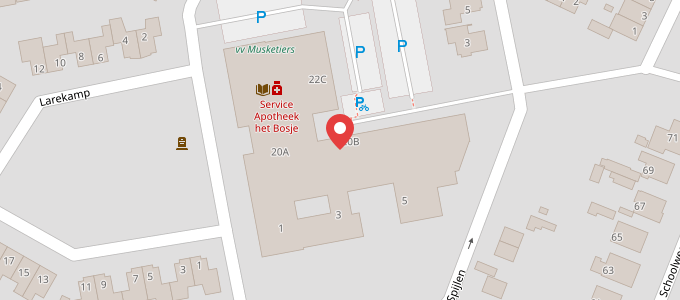
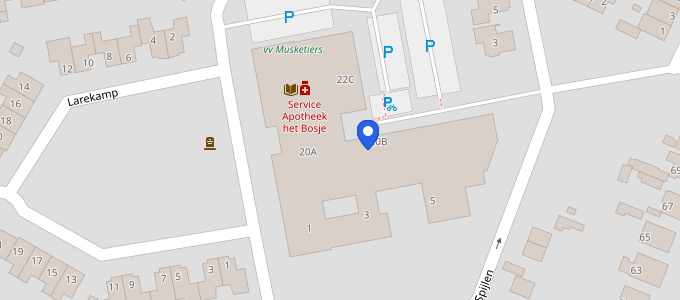
feat: add map generation script with consistent blue pin

diff --git a/scripts/generate-maps.js b/scripts/generate-maps.js
@@ -1,0 +1,129 @@
+import sharp from "sharp";
+import { createWriteStream } from "fs";
+import { get } from "https";
+import { join, dirname } from "path";
+import { fileURLToPath } from "url";
+
+const ROOT = join(dirname(fileURLToPath(import.meta.url)), "..");
+const STATIC = join(ROOT, "static");
+
+const MAPS = [
+  {
+    lat: 51.987485,
+    lon: 5.49561,
+    zoom: 18,
+    output: "locatie-kaart.png",
+    alt: "Locatie Tabaksweg 20 Elst",
+  },
+  {
+    lat: 51.987478,
+    lon: 5.494756,
+    zoom: 18,
+    output: "avond4daagse-locatie.png",
+    alt: "Startlocatie Het Eiveld Elst",
+  },
+];
+
+const OUT_W = 680;
+const OUT_H = 300;
+const TILE_SIZE = 256;
+const PIN_W = 22;
+const PIN_H = 30;
+
+const PIN_SVG = Buffer.from(
+  `<svg xmlns="http://www.w3.org/2000/svg" width="${PIN_W}" height="${PIN_H}">
+    <path d="M11 0 C4.9 0 0 4.9 0 11 C0 19.3 11 30 11 30 C11 30 22 19.3 22 11 C22 4.9 17.1 0 11 0 Z"
+      fill="#2563eb" stroke="#1e40af" stroke-width="1"/>
+    <circle cx="11" cy="11" r="5" fill="white"/>
+  </svg>`,
+);
+
+function tileCoords(lat, lon, zoom) {
+  const n = Math.pow(2, zoom);
+  const x = Math.floor(((lon + 180) / 360) * n);
+  const latRad = (lat * Math.PI) / 180;
+  const y = Math.floor(
+    ((1 - Math.log(Math.tan(latRad) + 1 / Math.cos(latRad)) / Math.PI) / 2) *
+      n,
+  );
+  return { x, y, n };
+}
+
+function pixelOffset(lat, lon, zoom, tileX, tileY) {
+  const n = Math.pow(2, zoom);
+  const px = (((lon + 180) / 360) * n - tileX) * TILE_SIZE;
+  const latRad = (lat * Math.PI) / 180;
+  const py =
+    ((1 - Math.log(Math.tan(latRad) + 1 / Math.cos(latRad)) / Math.PI) / 2) *
+      n -
+    tileY;
+  return { px, py: py * TILE_SIZE };
+}
+
+function fetchTile(x, y, zoom) {
+  return new Promise((resolve, reject) => {
+    const url = `https://tile.openstreetmap.org/${zoom}/${x}/${y}.png`;
+    const chunks = [];
+    get(url, { headers: { "User-Agent": "hetbestegoed.nl map generator" } }, (res) => {
+      res.on("data", (c) => chunks.push(c));
+      res.on("end", () => resolve(Buffer.concat(chunks)));
+      res.on("error", reject);
+    }).on("error", reject);
+  });
+}
+
+async function generateMap({ lat, lon, zoom, output }) {
+  const { x: tileX, y: tileY } = tileCoords(lat, lon, zoom);
+
+  // Download 3x3 grid of tiles centred on the target tile
+  const grid = [];
+  for (let dy = -1; dy <= 1; dy++) {
+    for (let dx = -1; dx <= 1; dx++) {
+      grid.push({ dx, dy, buf: await fetchTile(tileX + dx, tileY + dy, zoom) });
+    }
+  }
+
+  const totalW = 3 * TILE_SIZE;
+  const totalH = 3 * TILE_SIZE;
+
+  // Pixel of target coord within the 3x3 canvas (centre tile is at offset TILE_SIZE)
+  const { px, py } = pixelOffset(lat, lon, zoom, tileX, tileY);
+  const markerX = px + TILE_SIZE;
+  const markerY = py + TILE_SIZE;
+
+  // Crop region centred on the marker
+  const left = Math.max(0, Math.min(Math.round(markerX - OUT_W / 2), totalW - OUT_W));
+  const top = Math.max(0, Math.min(Math.round(markerY - OUT_H / 2), totalH - OUT_H));
+
+  const tileComposites = grid.map(({ dx, dy, buf }) => ({
+    input: buf,
+    left: (dx + 1) * TILE_SIZE,
+    top: (dy + 1) * TILE_SIZE,
+  }));
+
+  const stitched = await sharp({
+    create: { width: totalW, height: totalH, channels: 3, background: "#ffffff" },
+  })
+    .composite(tileComposites)
+    .png()
+    .toBuffer();
+
+  const cropped = await sharp(stitched)
+    .extract({ left, top, width: OUT_W, height: OUT_H })
+    .png()
+    .toBuffer();
+
+  const pinX = Math.round(markerX - left - PIN_W / 2);
+  const pinY = Math.round(markerY - top - PIN_H);
+
+  await sharp(cropped)
+    .composite([{ input: PIN_SVG, left: pinX, top: pinY }])
+    .png()
+    .toFile(join(STATIC, output));
+
+  console.log(`generated ${output}`);
+}
+
+for (const map of MAPS) {
+  await generateMap(map);
+}

diff --git a/content/avond-4daagse-elst/_index.md b/content/avond-4daagse-elst/_index.md
@@ -30,9 +30,9 @@ tabaksweg en om het Eiveld tot voor het Bestegoed.
 
 ## Startlocatie
 
-De start- en finish locatie is [Het Eiveld, Tabaksweg 20, 3921 CM Elst](https://www.openstreetmap.org/#map=19/51.987506/5.494291).
+De start- en finish locatie is [Het Eiveld, Tabaksweg 20, 3921 CM Elst](https://www.openstreetmap.org/?mlat=51.987478&mlon=5.494756&zoom=18).
 
-![Locatie Tabaksweg 20 Elst op OpenStreetMap](/locatie-kaart.png)
+[![Startlocatie Het Eiveld Elst op OpenStreetMap](/avond4daagse-locatie.png)](https://www.openstreetmap.org/?mlat=51.987478&mlon=5.494756&zoom=18)
 
 ## Inschrijven
 
